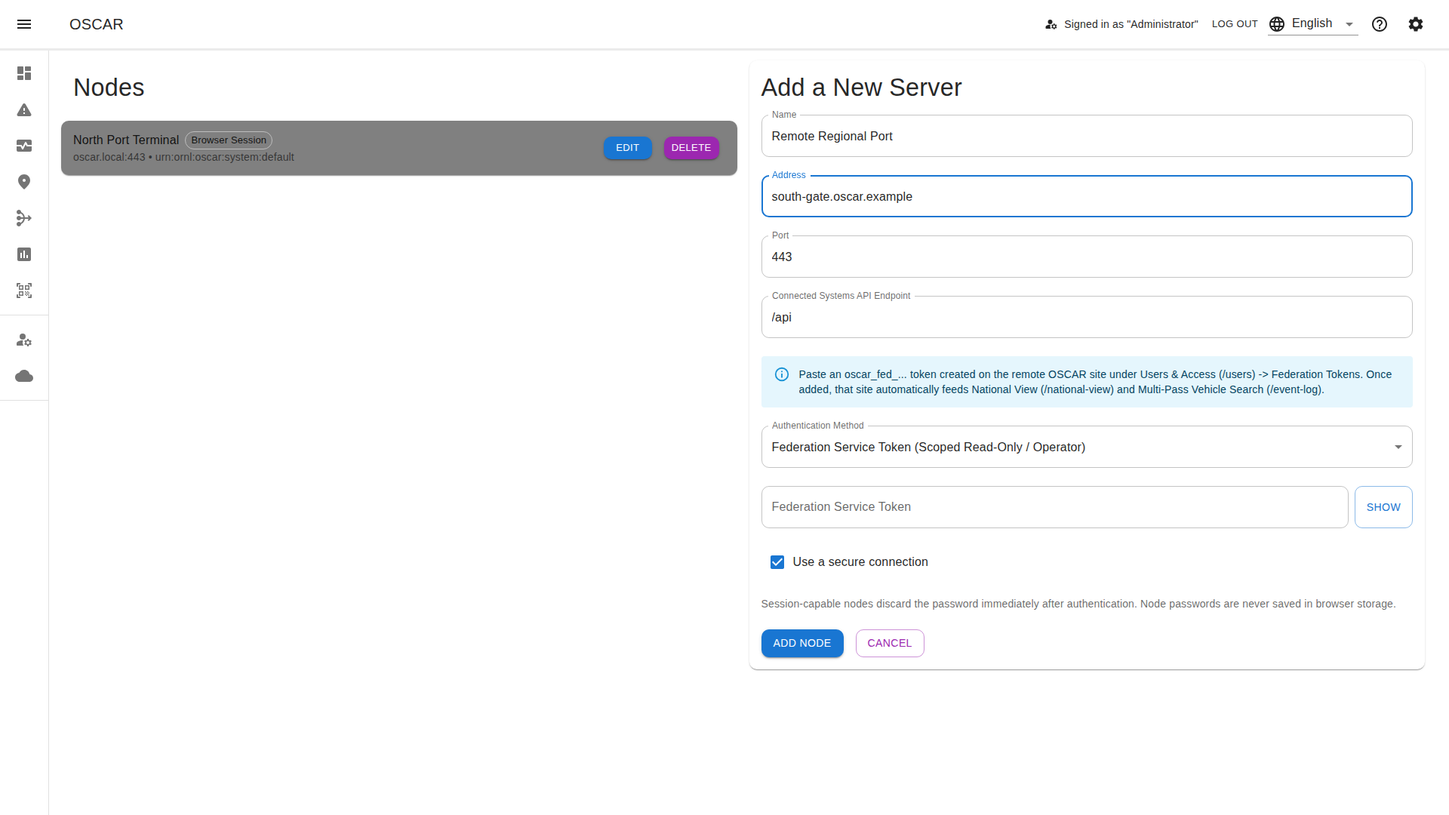
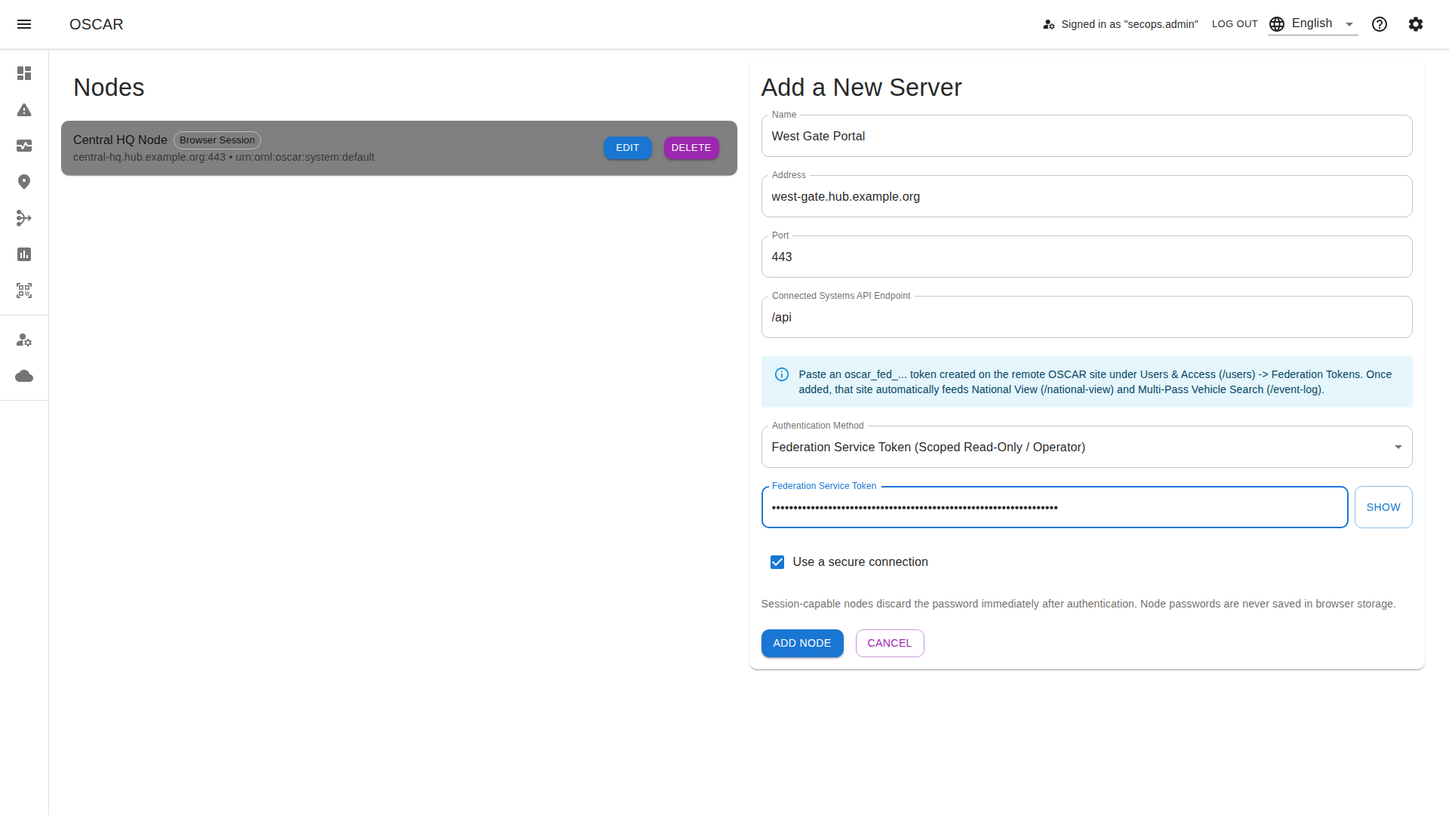
Prioritize stateless federation bearer auth, stamp nodeName on multi-node vehicle reports, and update localized manuals

diff --git a/services/sensorhub-service-oscar/src/main/java/com/botts/impl/service/oscar/vehicle/VehicleIncidentAggregator.java b/services/sensorhub-service-oscar/src/main/java/com/botts/impl/service/oscar/vehicle/VehicleIncidentAggregator.java
@@ -293,6 +293,7 @@ public final class VehicleIncidentAggregator {
 
     public record VehicleIncidentData(
             String nodeId,
+            String nodeName,
             String rawVehicleId,
             String normalizedVehicleId,
             String formattedVehicleId,
@@ -445,6 +446,13 @@ public final class VehicleIncidentAggregator {
                 && module.getConfiguration().nodeId != null && !module.getConfiguration().nodeId.isBlank())
                 ? module.getConfiguration().nodeId.trim()
                 : "oscar-node";
+        String rawCfgNodeName = (module != null && module.getConfiguration() != null
+                && module.getConfiguration().nodeName != null)
+                ? module.getConfiguration().nodeName.trim()
+                : "";
+        String localNodeName = (!rawCfgNodeName.isEmpty() && !"OSCAR System".equals(rawCfgNodeName))
+                ? rawCfgNodeName
+                : localNodeId;
 
         VehicleIncidentSpec effectiveSpec = spec != null
                 ? spec
@@ -452,7 +460,7 @@ public final class VehicleIncidentAggregator {
         int cappedLimit = maxResults <= 0 ? MAX_SEARCH_LIMIT : Math.min(maxResults, MAX_SEARCH_LIMIT);
 
         LocalPassSelection localSelection = collectLocalNodePasses(
-                module, localNodeId, effectiveSpec, start, end, cappedLimit);
+                module, localNodeId, localNodeName, effectiveSpec, start, end, cappedLimit);
 
         // Merge federated remote passes while deduplicating any composite (nodeId, laneUid, occupancyObsId) collisions
         Map<String, VehiclePassRecord> mergedByKey = new LinkedHashMap<>();
@@ -548,6 +556,7 @@ public final class VehicleIncidentAggregator {
 
         return new VehicleIncidentData(
                 localNodeId,
+                localNodeName,
                 nonNull(effectiveSpec.rawVehicleId()),
                 nonNull(effectiveSpec.normalizedVehicleId()),
                 displayVehicle,
@@ -589,6 +598,7 @@ public final class VehicleIncidentAggregator {
     private static LocalPassSelection collectLocalNodePasses(
             OSCARServiceModule module,
             String localNodeId,
+            String localNodeName,
             VehicleIncidentSpec spec,
             Instant start,
             Instant end,
@@ -634,7 +644,7 @@ public final class VehicleIncidentAggregator {
                     return;
                 }
                 String laneName = laneNamesByUid.getOrDefault(laneUid,
-                        info.getSystemID().getUniqueID() != null ? laneUid : "Lane");
+                        info.getSystemID().getUniqueID() != null ? humanizeUnmappedLaneUid(laneUid) : "Lane");
                 DataComponent struct = info.getRecordStructure();
                 boolean extended = OccupancyExtended.isExtendedSchema(struct);
                 String encodedDsId = dsIdEncoder != null ? dsIdEncoder.encodeID(dsBigId) : dsBigId.toString();
@@ -962,7 +972,7 @@ public final class VehicleIncidentAggregator {
                 if (allowedLaneFilter != null && !laneUid.isBlank() && !allowedLaneFilter.contains(laneUid)) {
                     continue;
                 }
-                String laneName = dsMeta != null ? dsMeta.laneName() : laneNamesByUid.getOrDefault(laneUid, laneUid);
+                String laneName = dsMeta != null ? dsMeta.laneName() : laneNamesByUid.getOrDefault(laneUid, humanizeUnmappedLaneUid(laneUid));
                 String datastreamId = dsMeta != null ? dsMeta.encodedOccStreamId() : "";
 
                 Instant startInst = epochSecondsToInstant(occ.getStartTime(), obs.getPhenomenonTime());
@@ -1039,7 +1049,7 @@ public final class VehicleIncidentAggregator {
 
                 results.add(new VehiclePassRecord(
                         localNodeId,
-                        localNodeId,
+                        localNodeName,
                         false,
                         laneUid,
                         laneName,
@@ -1080,7 +1090,7 @@ public final class VehicleIncidentAggregator {
                 if (allowedLaneFilter != null && !laneUid.isBlank() && !allowedLaneFilter.contains(laneUid)) {
                     continue;
                 }
-                String laneName = laneNamesByUid.getOrDefault(laneUid, laneUid.isEmpty() ? "Unknown Lane" : laneUid);
+                String laneName = laneNamesByUid.getOrDefault(laneUid, laneUid.isEmpty() ? "Unknown Lane" : humanizeUnmappedLaneUid(laneUid));
                 LaneStreamMetadata dsMeta = occStreamByLaneUid.get(laneUid);
                 String datastreamId = dsMeta != null ? dsMeta.encodedOccStreamId() : "";
                 String tsIso = latestAdj != null && !latestAdj.timeUtcIso().isEmpty()
@@ -1105,7 +1115,7 @@ public final class VehicleIncidentAggregator {
 
                 results.add(new VehiclePassRecord(
                         localNodeId,
-                        localNodeId,
+                        localNodeName,
                         false,
                         laneUid,
                         laneName,
@@ -2625,7 +2635,9 @@ public final class VehicleIncidentAggregator {
         }
         String sysUid = info.getSystemID() != null ? nonNull(info.getSystemID().getUniqueID()) : "";
         String laneUid = resolveOwningLaneUid(sysUid, topology);
-        String laneName = topology != null ? topology.laneNamesByUid().getOrDefault(laneUid, laneUid) : laneUid;
+        String laneName = (topology != null && topology.laneNamesByUid().containsKey(laneUid))
+                ? topology.laneNamesByUid().get(laneUid)
+                : humanizeUnmappedLaneUid(laneUid);
         DataComponent struct = info.getRecordStructure();
         return new LaneStreamMetadata(
                 laneUid,
@@ -2635,6 +2647,21 @@ public final class VehicleIncidentAggregator {
                 struct,
                 OccupancyExtended.isExtendedSchema(struct)
         );
+    }
+
+    private static String humanizeUnmappedLaneUid(String laneUid) {
+        if (laneUid == null || laneUid.isBlank()) {
+            return "";
+        }
+        java.util.regex.Matcher m = Pattern.compile("(?i)(?:^|:)lane-(\\d{1,3})(?:$|:)").matcher(laneUid.trim());
+        if (m.find()) {
+            String digits = m.group(1);
+            if (digits.length() == 1) {
+                digits = "0" + digits;
+            }
+            return "Lane" + digits;
+        }
+        return laneUid.trim();
     }
 
     private static Map<Integer, DispositionCodeSpec> buildDispositionSpecs(OSCARServiceModule module) {

diff --git a/security/sensorhub-security-basic-session/src/main/java/org/sensorhub/impl/security/session/BasicSessionAuthenticator.java b/security/sensorhub-security-basic-session/src/main/java/org/sensorhub/impl/security/session/BasicSessionAuthenticator.java
@@ -275,7 +275,16 @@ public class BasicSessionAuthenticator extends LoginAuthenticator {
                 return Authentication.SEND_CONTINUE;
             }
 
-            // 1. Existing opaque session cookie
+            // 1. Stateless Federation Service Token (Authorization: Bearer oscar_fed_...)
+            // Evaluated before ambient session cookies or Zero-Trust tunnel user headers so
+            // cross-origin federated queries honor the token's least-privilege role, view scope,
+            // and immediate revocation without overwriting human browser sessions.
+            Authentication bearerAuth = authenticateBearerToken(request, response);
+            if (bearerAuth != null) {
+                return bearerAuth;
+            }
+
+            // 2. Existing opaque session cookie
             PersistedSession activeSession = resolveActiveSession(request, response);
             if (activeSession != null) {
                 String username = activeSession.username;
@@ -307,7 +316,7 @@ public class BasicSessionAuthenticator extends LoginAuthenticator {
                 return new UserAuthentication(AUTH_METHOD, withoutCredentials(username));
             }
 
-            // 2. Trusted Zero Trust Tunnel Identity Header SSO (Octelium)
+            // 3. Trusted Zero Trust Tunnel Identity Header SSO (Octelium)
             TunnelAuthResult tunnelAuth = authenticateTrustedTunnel(request, response);
             if (tunnelAuth != null) {
                 String sessionSubpath = extractSessionApiSubpath(path);
@@ -321,12 +330,6 @@ public class BasicSessionAuthenticator extends LoginAuthenticator {
                     }
                 }
                 return tunnelAuth.authentication();
-            }
-
-            // 3. Stateless Federation Service Token (Authorization: Bearer oscar_fed_...)
-            Authentication bearerAuth = authenticateBearerToken(request, response);
-            if (bearerAuth != null) {
-                return bearerAuth;
             }
 
             // 4. HTTP Basic Authentication (API clients / legacy scripts)
@@ -379,9 +382,6 @@ public class BasicSessionAuthenticator extends LoginAuthenticator {
             log.warn("Rejected invalid or expired Federation Bearer token from {}", clientIp(request));
             response.sendError(HttpServletResponse.SC_UNAUTHORIZED);
             return Authentication.SEND_FAILURE;
-        }
-        if (readSessionCookie(request) == null) {
-            createSession(request, response, fed.serviceUserId, allowKeepSignedIn);
         }
         return new UserAuthentication(AUTH_METHOD, withoutCredentials(fed.serviceUserId));
     }

diff --git a/services/sensorhub-service-oscar/src/main/java/com/botts/impl/service/oscar/reports/types/VehicleIncidentReport.java b/services/sensorhub-service-oscar/src/main/java/com/botts/impl/service/oscar/reports/types/VehicleIncidentReport.java
@@ -133,14 +133,17 @@ public class VehicleIncidentReport extends Report {
         NumberFormat intFmt = NumberFormat.getIntegerInstance(Locale.US);
         List<VehiclePassRecord> passes = data.passes();
 
+        String hostNodeLabel = (data.nodeName() != null && !data.nodeName().isBlank())
+                ? data.nodeName().trim()
+                : data.nodeId();
         try (PdfDocumentBuilder pdf = new PdfDocumentBuilder(
                 "Vehicle Incident Report",
-                data.nodeId(),
+                hostNodeLabel,
                 PdfDocumentBuilder.Orientation.LANDSCAPE
         )) {
             String siteHeader = data.distinctNodeCount() > 1
-                    ? (data.nodeId() + " (+" + (data.distinctNodeCount() - 1) + " federated)")
-                    : data.nodeId();
+                    ? (hostNodeLabel + " (+" + (data.distinctNodeCount() - 1) + " federated)")
+                    : hostNodeLabel;
             String vehicleLine = "Vehicle ID: " + data.formattedVehicleId()
                     + " (" + data.matchMode().displayLabel() + ")";
 
@@ -624,8 +627,14 @@ public class VehicleIncidentReport extends Report {
 
     private static String formatNodeAndLane(VehiclePassRecord pass, boolean showNode) {
         String lane = humanizeLaneDisplay(pass.laneName(), pass.laneUid());
-        if (showNode && !pass.nodeId().isEmpty()) {
-            return pass.nodeId() + " / " + lane + (pass.occupancyCount() > 0 ? ("\nOcc #" + pass.occupancyCount()) : "");
+        String nodeLabel = (pass.nodeName() != null && !pass.nodeName().isBlank())
+                ? pass.nodeName().trim()
+                : (pass.nodeId() != null ? pass.nodeId().trim() : "");
+        if (showNode && !nodeLabel.isEmpty()) {
+            String strippedLane = lane.startsWith(nodeLabel + " - ")
+                    ? lane.substring((nodeLabel + " - ").length()).trim()
+                    : lane;
+            return nodeLabel + " / " + strippedLane + (pass.occupancyCount() > 0 ? ("\nOcc #" + pass.occupancyCount()) : "");
         }
         return lane + (pass.occupancyCount() > 0 ? ("\nOcc #" + pass.occupancyCount()) : "");
     }

diff --git a/security/sensorhub-security-basic-session/src/test/java/org/sensorhub/impl/security/session/BasicSessionAuthenticatorTest.java b/security/sensorhub-security-basic-session/src/test/java/org/sensorhub/impl/security/session/BasicSessionAuthenticatorTest.java
@@ -425,11 +425,13 @@ public class BasicSessionAuthenticatorTest
 
         ResponseCapture bearerResp = new ResponseCapture();
         Authentication bearerAuth = auth.validateRequest(createRequest(
-            "GET", "/sensorhub/api/systems", Map.of(), null,
+            "GET", "/sensorhub/api/systems", Map.of(), new Cookie[] {adminCookie},
             Map.of("Authorization", "Bearer " + rawBearer)), bearerResp.proxy(), true);
         assertTrue(bearerAuth instanceof Authentication.User);
+        assertEquals("svc-fed-" + tokenId, ((Authentication.User) bearerAuth).getUserIdentity().getUserPrincipal().getName());
+        assertTrue("Stateless Bearer auth must not overwrite browser OSCAR_SESSION cookies", bearerResp.setCookies.isEmpty());
 
-        // Revoke token -> immediate 401
+        // Revoke token -> immediate 401 even if an ambient session cookie is present
         ResponseCapture revokeResp = new ResponseCapture();
         auth.validateRequest(createJsonRequest(
             "DELETE", "/sensorhub/session/admin/federation-tokens/" + tokenId, "",
@@ -438,7 +440,7 @@ public class BasicSessionAuthenticatorTest
 
         ResponseCapture revokedBearerResp = new ResponseCapture();
         Authentication afterRevoke = auth.validateRequest(createRequest(
-            "GET", "/sensorhub/api/systems", Map.of(), null,
+            "GET", "/sensorhub/api/systems", Map.of(), new Cookie[] {adminCookie},
             Map.of("Authorization", "Bearer " + rawBearer)), revokedBearerResp.proxy(), true);
         assertEquals(Authentication.SEND_FAILURE, afterRevoke);
         assertEquals(401, revokedBearerResp.status);

diff --git a/services/sensorhub-service-oscar/src/main/resources/com/botts/impl/service/oscar/i18n/README_el.md b/services/sensorhub-service-oscar/src/main/resources/com/botts/impl/service/oscar/i18n/README_el.md
@@ -869,6 +869,32 @@ Lane02,lane02,true,35.8859,-84.2119,north-gate;secondary,Aspect,192.0.2.11,502,1
   </video>
 </details>
 
+### 11.3 Αναζήτηση οχημάτων πολλαπλών κόμβων, ενιαίες αναφορές &amp; ανάκληση χρηστών SSO
+
+Με απομακρυσμένους κόμβους συνδεδεμένους μέσω διακριτικών `oscar_fed_...`, η επιλογή **Συμβάντα -> Σύγκριση διελεύσεων** συσχετίζει εμπορευματοκιβώτια ISO 6346 και πινακίδες σε όλες τις πύλες ταυτόχρονα, ενώ η **Δημιουργία αναφορών -> Αναφορά συμβάντος οχήματος (`VEHICLE_INCIDENT`)** εξάγει ενιαία αναφορά (`PDF`, `CSV`, `JSON`, `XLSX`) με το όνομα κόμβου και λωρίδας κάθε διέλευσης. Για πλήρη ανάκληση πρόσβασης χρήστη στο `ORNL/oscar-federation-hub`, διαγράψτε τον λογαριασμό στο Authentik (**Directory -> Users -> Delete**), αφήστε το `oscar-hub-sync` να τον αφαιρέσει από το Octelium και διαγράψτε τυχόν αποθηκευμένη γραμμή στη σελίδα **Χρήστες &amp; πρόσβαση -> Χρήστες &amp; ρόλοι**.
+
+![Αναζήτηση και σύγκριση οχημάτων πολλαπλών κόμβων](https://raw.githubusercontent.com/ORNL/osh-oakridge-modules/main/docs/oscar-operator-manual/images/41-multi-node-vehicle-search.png)
+
+![Ενιαία αναφορά συμβάντος οχήματος πολλαπλών κόμβων](https://raw.githubusercontent.com/ORNL/osh-oakridge-modules/main/docs/oscar-operator-manual/images/42-multi-node-incident-report.png)
+
+![Πλήρης ανάκληση πρόσβασης χρηστών SSO](https://raw.githubusercontent.com/ORNL/osh-oakridge-modules/main/docs/oscar-operator-manual/images/43-sso-user-revocation.png)
+
+<details class="oscar-video-guide">
+  <summary>Βιντεοοδηγός (#20, 28.4s): Ομοσπονδοποίηση κόμβων, αναζήτηση οχημάτων σε πολλαπλές πύλες &amp; ενιαίες αναφορές</summary>
+  <video controls loading="lazy" width="720" height="405" preload="none" playsinline>
+    <source src="/video-guides/videos/20-multi-node-federation-vehicle-search-and-report.mp4" type="video/mp4">
+    <track kind="captions" src="/video-guides/captions/20-multi-node-federation-vehicle-search-and-report.vtt" srclang="en" label="English" default>
+  </video>
+</details>
+
+<details class="oscar-video-guide">
+  <summary>Βιντεοοδηγός (#21, 24.0s): Εγγραφή χρηστών SSO Passkey στο Authentik &amp; πλήρης ανάκληση πρόσβασης</summary>
+  <video controls loading="lazy" width="720" height="405" preload="none" playsinline>
+    <source src="/video-guides/videos/21-federated-sso-passkey-onboarding-and-revocation.mp4" type="video/mp4">
+    <track kind="captions" src="/video-guides/captions/21-federated-sso-passkey-onboarding-and-revocation.vtt" srclang="en" label="English" default>
+  </video>
+</details>
+
 ## 12. Διατήρηση δεδομένων και αποθήκευση
 
 Το τυπικό προφίλ 3.11.0 χρησιμοποιεί την κλιμακωτή αρχιτεκτονική PostgreSQL + Apache Parquet σε λειτουργία

diff --git a/services/sensorhub-service-oscar/src/main/resources/com/botts/impl/service/oscar/i18n/README.md b/services/sensorhub-service-oscar/src/main/resources/com/botts/impl/service/oscar/i18n/README.md
@@ -906,6 +906,32 @@ Duplicate names and duplicate address/port pairs are rejected. **Edit** changes 
   </video>
 </details>
 
+### 11.3 Multi-node vehicle search, consolidated incident reports &amp; centralized user revocation
+
+Once one or more remote portals are connected via `oscar_fed_...` Federation Service Tokens, **Events -> Compare Passes** correlates normalized ISO 6346 container IDs and license plates across all reachable nodes simultaneously, and **Report Generator -> Vehicle Incident Report (`VEHICLE_INCIDENT`)** (with **Include correlated passes from federated nodes** checked) produces a single consolidated `PDF`, `CSV`, `JSON`, or `Excel (.xlsx)` report stamping each crossing with its originating node name and lane. When offboarding an operator or viewer on a centralized [`ORNL/oscar-federation-hub`](https://github.com/ORNL/oscar-federation-hub) deployment, delete the user in Authentik (**Directory -> Users -> Delete**), allow `oscar-hub-sync.timer` (or `./oscar-hub.sh sync-users`) to purge the `managed-by: authentik-sync` user from Octelium automatically, and delete any cached user row in OSCAR **Users &amp; Access -> Users &amp; Roles**.
+
+![Multi-Node Vehicle Search & Comparison](https://raw.githubusercontent.com/ORNL/osh-oakridge-modules/main/docs/oscar-operator-manual/images/41-multi-node-vehicle-search.png)
+
+![Consolidated Multi-Node Vehicle Incident Report](https://raw.githubusercontent.com/ORNL/osh-oakridge-modules/main/docs/oscar-operator-manual/images/42-multi-node-incident-report.png)
+
+![Centralized SSO User Offboarding & Revocation](https://raw.githubusercontent.com/ORNL/osh-oakridge-modules/main/docs/oscar-operator-manual/images/43-sso-user-revocation.png)
+
+<details class="oscar-video-guide">
+  <summary>Video guide (#20, 28.4s): Federate Multi-Site Nodes, Search Vehicles Across Portals &amp; Generate Reports</summary>
+  <video controls loading="lazy" width="720" height="405" preload="none" playsinline>
+    <source src="/video-guides/videos/20-multi-node-federation-vehicle-search-and-report.mp4" type="video/mp4">
+    <track kind="captions" src="/video-guides/captions/20-multi-node-federation-vehicle-search-and-report.vtt" srclang="en" label="English" default>
+  </video>
+</details>
+
+<details class="oscar-video-guide">
+  <summary>Video guide (#21, 24.0s): Onboard Authentik SSO Passkey Users &amp; Revoke Access Across All Layers</summary>
+  <video controls loading="lazy" width="720" height="405" preload="none" playsinline>
+    <source src="/video-guides/videos/21-federated-sso-passkey-onboarding-and-revocation.mp4" type="video/mp4">
+    <track kind="captions" src="/video-guides/captions/21-federated-sso-passkey-onboarding-and-revocation.vtt" srclang="en" label="English" default>
+  </video>
+</details>
+
 ## 12. Data retention and storage behavior
 
 The standard 3.11.0 profile uses the tiered PostgreSQL + Apache Parquet architecture in `PARQUET_PRIMARY`

diff --git a/services/sensorhub-service-oscar/src/main/resources/com/botts/impl/service/oscar/i18n/README_fr.md b/services/sensorhub-service-oscar/src/main/resources/com/botts/impl/service/oscar/i18n/README_fr.md
@@ -871,6 +871,32 @@ Vérifiez voies/événements distants, ligne Nationale, rapport et événement a
   </video>
 </details>
 
+### 11.3 Recherche multi-nœuds de véhicules, rapports consolidés et révocation SSO
+
+Une fois les portails distants connectés via des jetons `oscar_fed_...`, **Événements -> Comparer les passages** corrèle les conteneurs ISO 6346 et plaques sur tous les nœuds, et le **Générateur de rapports -> Rapport d'incident véhicule (`VEHICLE_INCIDENT`)** produit un rapport unifié (`PDF`, `CSV`, `JSON`, `XLSX`) indiquant le nœud et la voie de chaque passage. Pour révoquer complètement un utilisateur sur `ORNL/oscar-federation-hub`, supprimez le compte dans Authentik (**Directory -> Users -> Delete**), laissez `oscar-hub-sync` le retirer d'Octelium et supprimez toute ligne mise en cache dans **Utilisateurs et accès -> Utilisateurs et rôles**.
+
+![Recherche et comparaison multi-nœuds de véhicules](https://raw.githubusercontent.com/ORNL/osh-oakridge-modules/main/docs/oscar-operator-manual/images/41-multi-node-vehicle-search.png)
+
+![Rapport consolidé multi-nœuds d'incident véhicule](https://raw.githubusercontent.com/ORNL/osh-oakridge-modules/main/docs/oscar-operator-manual/images/42-multi-node-incident-report.png)
+
+![Révocation complète des utilisateurs SSO](https://raw.githubusercontent.com/ORNL/osh-oakridge-modules/main/docs/oscar-operator-manual/images/43-sso-user-revocation.png)
+
+<details class="oscar-video-guide">
+  <summary>Guide vidéo (#20, 28.4s) : Fédérer plusieurs sites, rechercher des véhicules multi-nœuds et générer des rapports</summary>
+  <video controls loading="lazy" width="720" height="405" preload="none" playsinline>
+    <source src="/video-guides/videos/20-multi-node-federation-vehicle-search-and-report.mp4" type="video/mp4">
+    <track kind="captions" src="/video-guides/captions/20-multi-node-federation-vehicle-search-and-report.vtt" srclang="en" label="English" default>
+  </video>
+</details>
+
+<details class="oscar-video-guide">
+  <summary>Guide vidéo (#21, 24.0s) : Intégrer des utilisateurs SSO Passkey dans Authentik et révoquer tout accès</summary>
+  <video controls loading="lazy" width="720" height="405" preload="none" playsinline>
+    <source src="/video-guides/videos/21-federated-sso-passkey-onboarding-and-revocation.mp4" type="video/mp4">
+    <track kind="captions" src="/video-guides/captions/21-federated-sso-passkey-onboarding-and-revocation.vtt" srclang="en" label="English" default>
+  </video>
+</details>
+
 ## 12. Conservation des données et stockage
 
 Le profil standard 3.11.0 utilise l'architecture à plusieurs niveaux PostgreSQL + Apache Parquet en mode

diff --git a/services/sensorhub-service-oscar/src/main/resources/com/botts/impl/service/oscar/i18n/README_es.md b/services/sensorhub-service-oscar/src/main/resources/com/botts/impl/service/oscar/i18n/README_es.md
@@ -872,6 +872,32 @@ Verifique carriles/eventos del remoto, su fila Nacional, un informe y un evento 
   </video>
 </details>
 
+### 11.3 Búsqueda multinodo de vehículos, informes consolidados y revocación de usuarios SSO
+
+Con nodos remotos conectados mediante tokens `oscar_fed_...`, **Eventos -> Comparar pasadas** correlaciona contenedores ISO 6346 y matrículas en todos los portales simultáneamente, y el **Generador de informes -> Informe de incidente de vehículo (`VEHICLE_INCIDENT`)** genera un informe único (`PDF`, `CSV`, `JSON`, `XLSX`) identificando el nodo y carril de cada cruce. Para revocar completamente el acceso de un usuario en `ORNL/oscar-federation-hub`, elimínelo en Authentik (**Directory -> Users -> Delete**), deje que `oscar-hub-sync` lo retire de Octelium y elimine cualquier fila en caché en **Usuarios y acceso -> Usuarios y roles**.
+
+![Búsqueda y comparación multinodo de vehículos](https://raw.githubusercontent.com/ORNL/osh-oakridge-modules/main/docs/oscar-operator-manual/images/41-multi-node-vehicle-search.png)
+
+![Informe consolidado multinodo de incidente de vehículo](https://raw.githubusercontent.com/ORNL/osh-oakridge-modules/main/docs/oscar-operator-manual/images/42-multi-node-incident-report.png)
+
+![Revocación completa de usuarios SSO](https://raw.githubusercontent.com/ORNL/osh-oakridge-modules/main/docs/oscar-operator-manual/images/43-sso-user-revocation.png)
+
+<details class="oscar-video-guide">
+  <summary>Videoguía (#20, 28.4s): Federar nodos multisede, buscar vehículos entre portales y generar informes</summary>
+  <video controls loading="lazy" width="720" height="405" preload="none" playsinline>
+    <source src="/video-guides/videos/20-multi-node-federation-vehicle-search-and-report.mp4" type="video/mp4">
+    <track kind="captions" src="/video-guides/captions/20-multi-node-federation-vehicle-search-and-report.vtt" srclang="en" label="English" default>
+  </video>
+</details>
+
+<details class="oscar-video-guide">
+  <summary>Videoguía (#21, 24.0s): Incorporar usuarios SSO Passkey en Authentik y revocar acceso completo</summary>
+  <video controls loading="lazy" width="720" height="405" preload="none" playsinline>
+    <source src="/video-guides/videos/21-federated-sso-passkey-onboarding-and-revocation.mp4" type="video/mp4">
+    <track kind="captions" src="/video-guides/captions/21-federated-sso-passkey-onboarding-and-revocation.vtt" srclang="en" label="English" default>
+  </video>
+</details>
+
 ## 12. Retención de datos y almacenamiento
 
 El perfil estándar 3.11.0 utiliza la arquitectura por niveles PostgreSQL + Apache Parquet en modo
